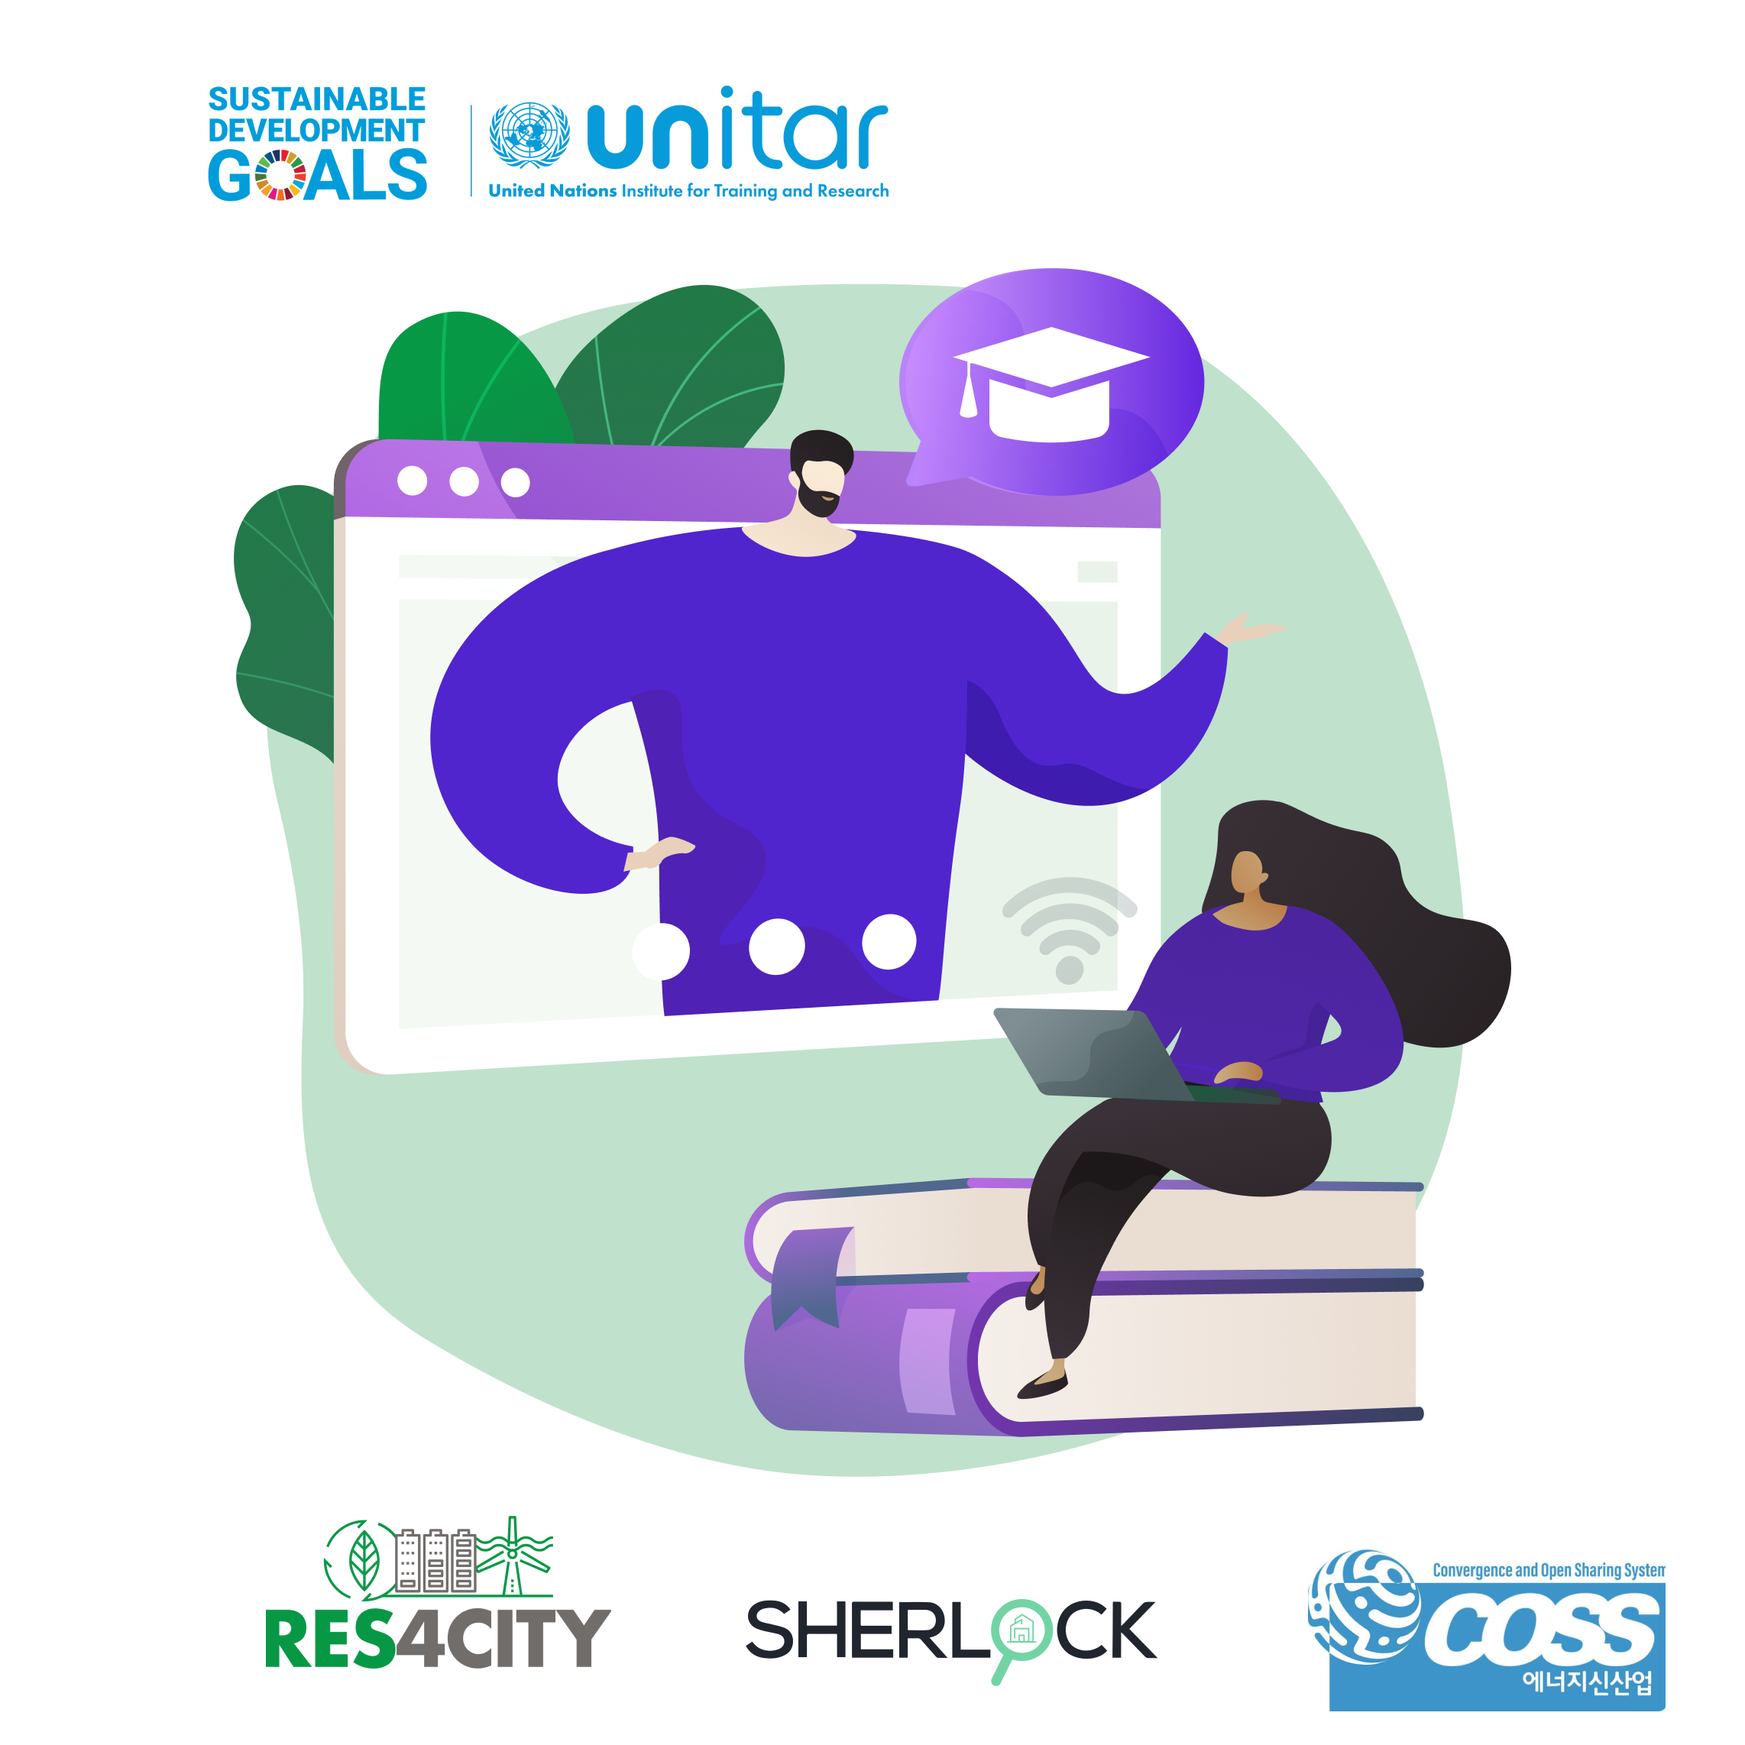
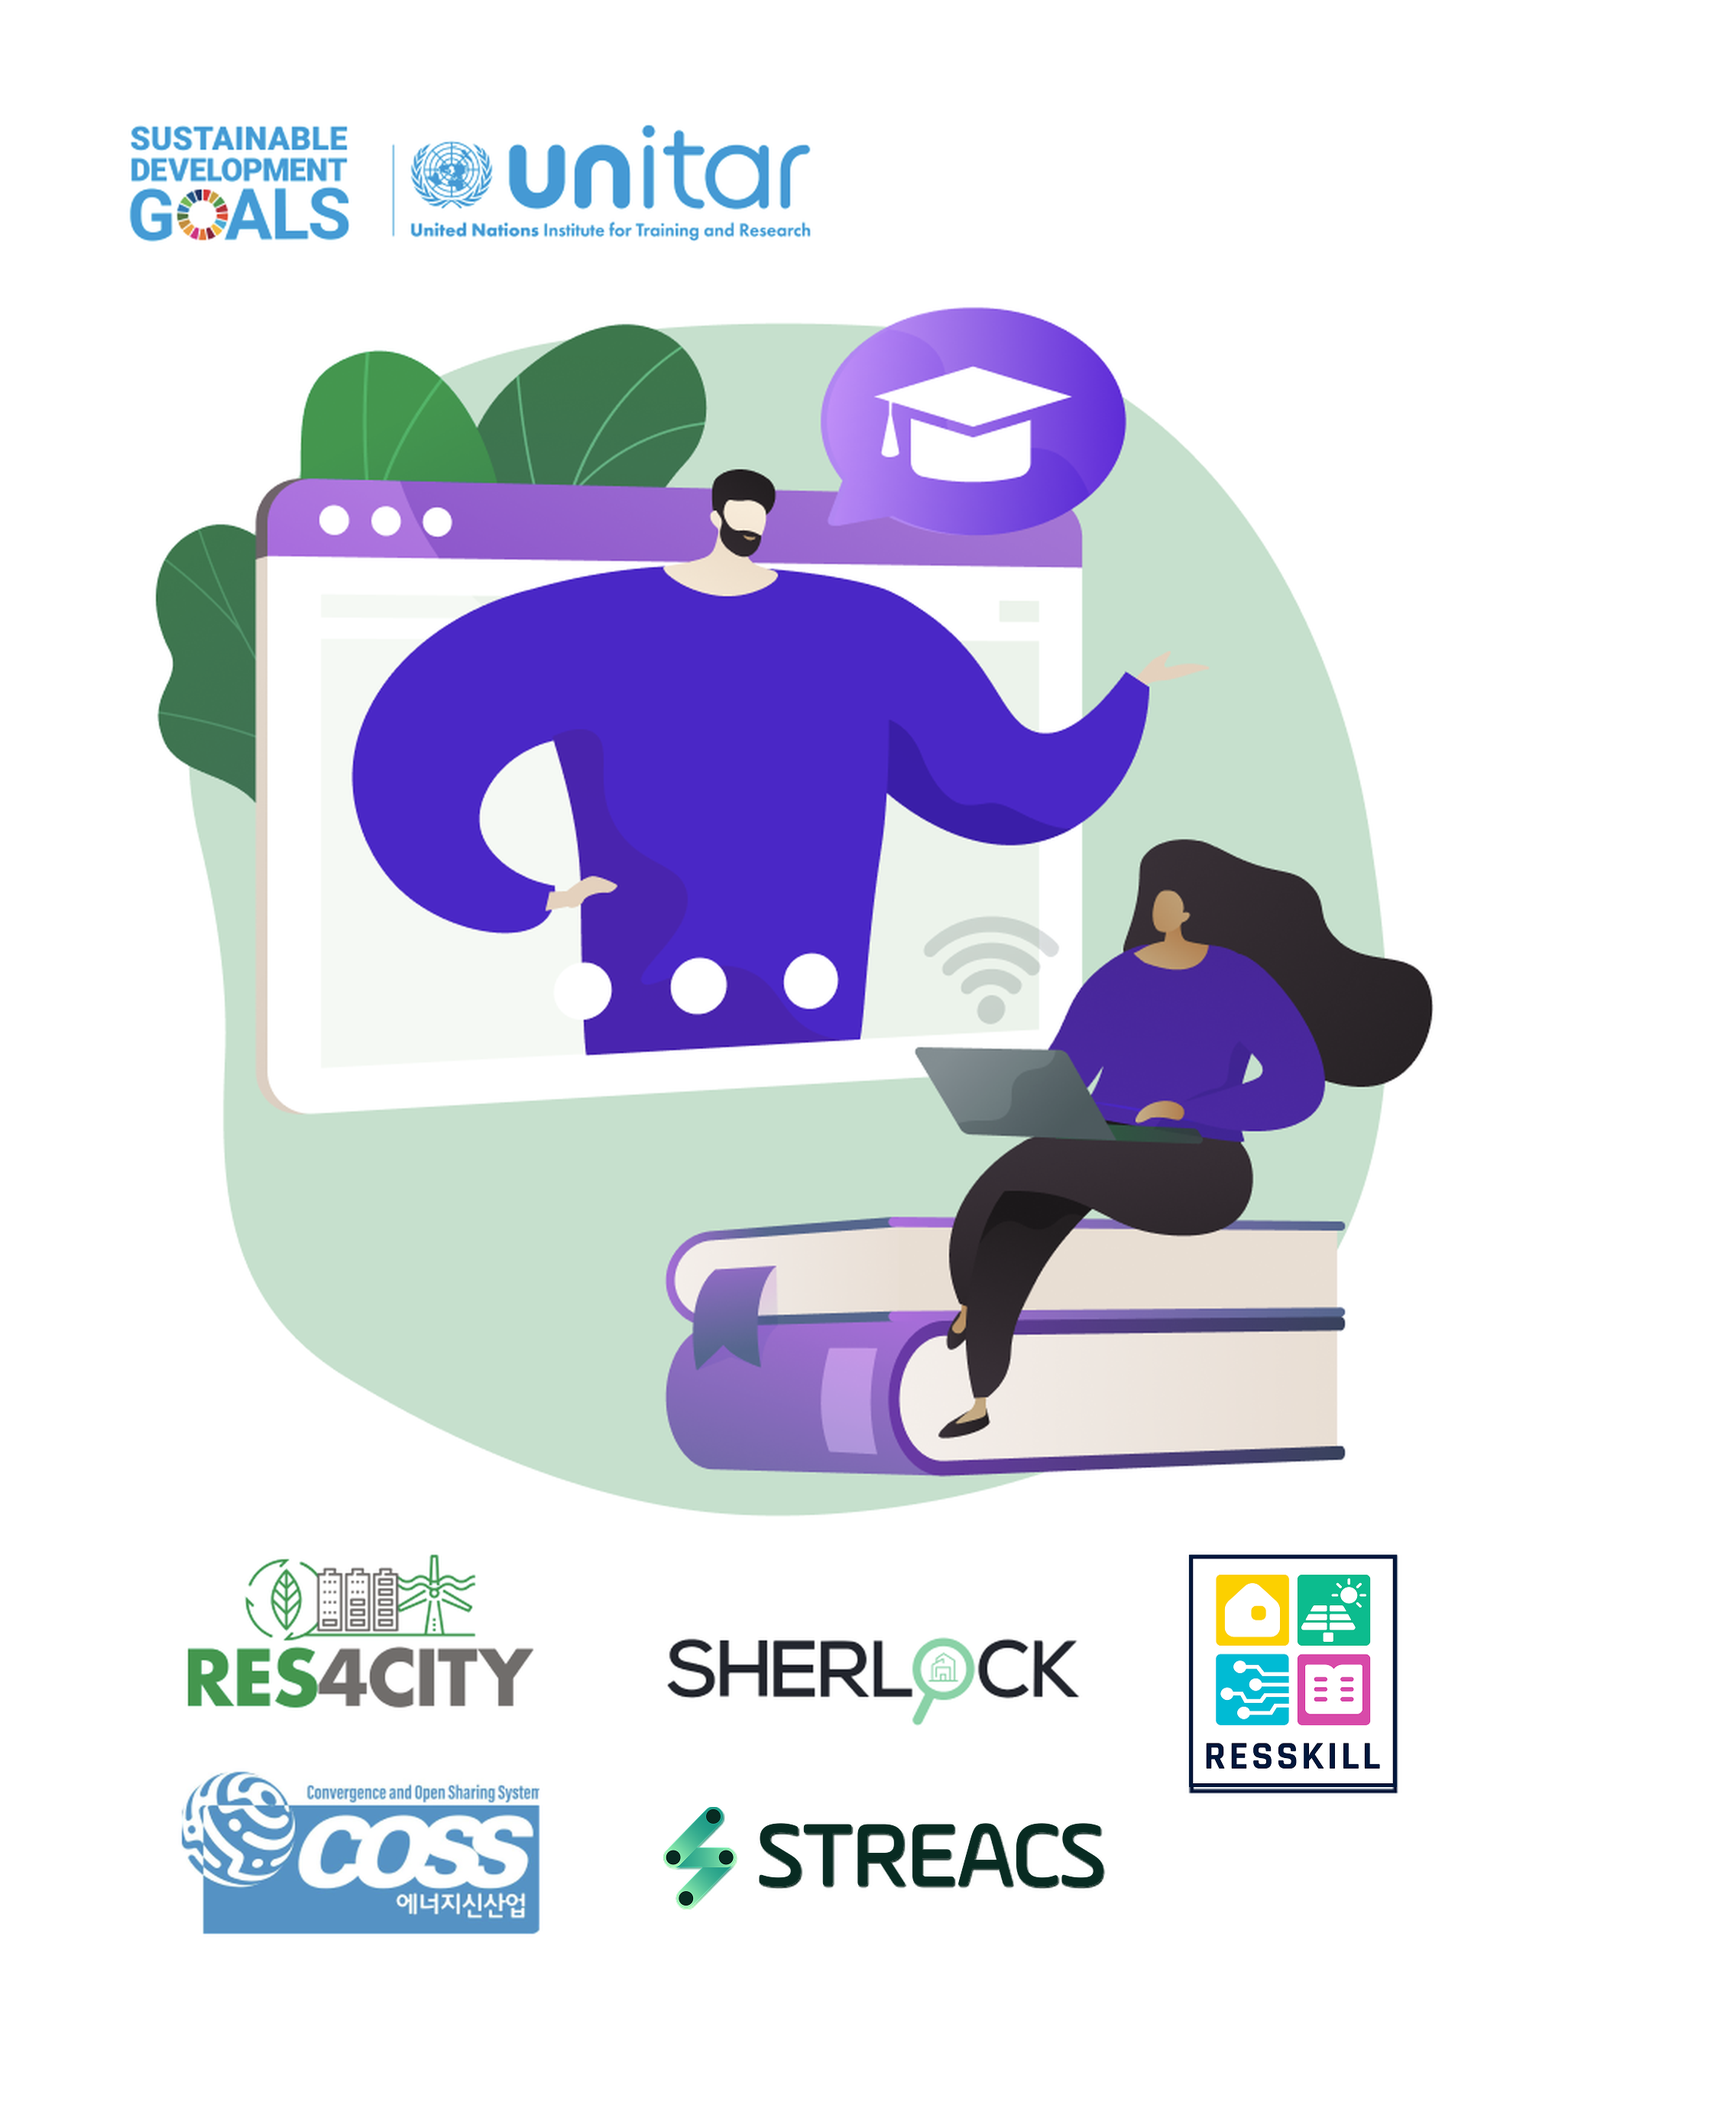
Change image and About us

diff --git a/src/components/Header.tsx b/src/components/Header.tsx
@@ -162,12 +162,6 @@ export default function Header({ course }: { course?: HeaderCourseContext } = {}
                 </div>
               )}
             </div>
-
-            {!user && (
-              <Link href="/about" className={triggerClass}>
-                About us
-              </Link>
-            )}
           </nav>
         </div>
 
@@ -256,11 +250,6 @@ export default function Header({ course }: { course?: HeaderCourseContext } = {}
             <Link href="/courses" className="py-2.5 px-2 text-lg font-bold text-brand-dark" onClick={() => setMobileOpen(false)}>
               Micro-credentials
             </Link>
-            {!user && (
-              <Link href="/about" className="py-2.5 px-2 text-lg font-bold text-brand-dark" onClick={() => setMobileOpen(false)}>
-                About us
-              </Link>
-            )}
 
             <div className="mt-4 grid gap-3 border-t border-brand-line pt-4">
               {user ? (

diff --git a/src/app/page.tsx b/src/app/page.tsx
@@ -123,7 +123,7 @@ export default function Home() {
               </Link>
             </div>
           </div>
-          <div className="relative mx-auto aspect-square w-full max-w-[532px]">
+          <div className="relative mx-auto aspect-[2260/2784] w-full max-w-[532px]">
             <img
               alt="Learners building sustainability skills"
               src="/images/landing.png"

diff --git a/src/data/navigation.ts b/src/data/navigation.ts
@@ -10,7 +10,6 @@ export const primaryNavigation: NavItem[] = [
       { label: "Micro-credentials", href: "/courses" },
     ],
   },
-  { label: "About us", href: "/about" },
 ];
 
 export type FooterColumn = {
